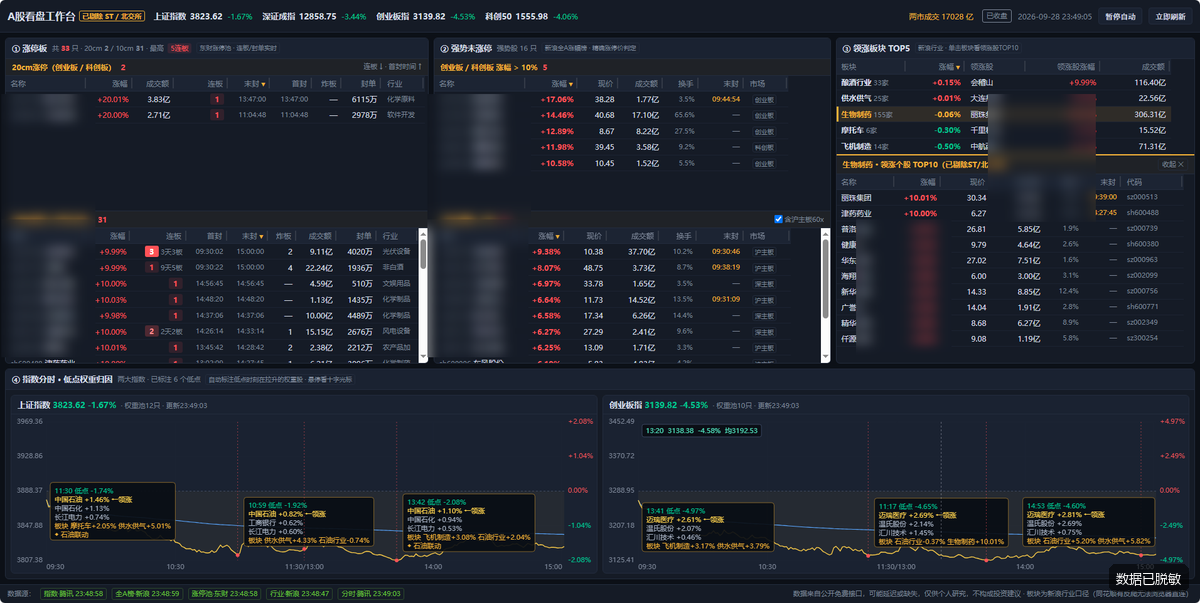
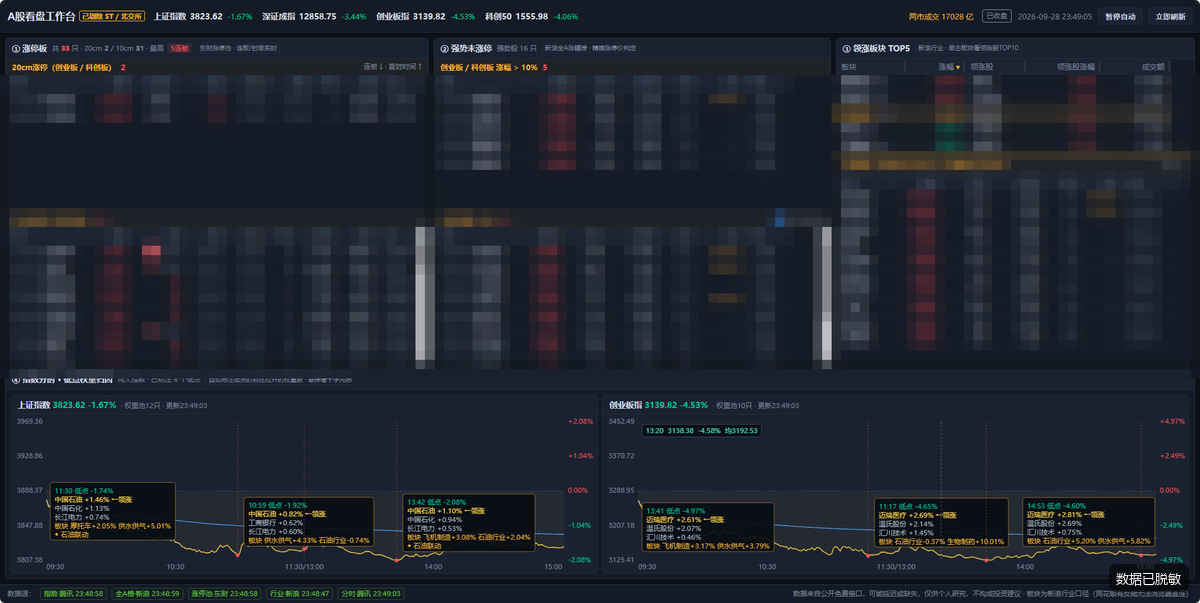
feat: 案例封面重做（设备框样式）+ 脱敏改用马赛克
封面
- 新增 dev/make-case-covers.py：把截图装进「浏览器窗口 / 手机」框，统一 1200x750
- 桌面案例用浏览器框（含圆点与标题胶囊），移动案例用手机框（含刘海）
- 配品牌底色、径向光晕、极淡网格与投影，「数据已脱敏」角标打在封面角落
- 原先直接把截图塞进卡片，缩到 400px 宽就成了一团看不清的色块

脱敏
- 高斯模糊改为马赛克：大块模糊看起来像「图片糊了」，马赛克才是通用的「刻意遮蔽」语言
- 深色图从「逐列抠名称列」改为整片遮蔽——三列卡片垂直位置并不一致，
  右列还多一列股票代码，逐列抠坐标连续失败三次，漏出过真实个股名
- 浅色图同步改马赛克，两图风格统一
- 新增 dev/cases-clean/（无角标中间产物，已 gitignore），避免角标跟着截图跑进设备框

测试 28 项全部通过

diff --git a/config.js b/config.js
@@ -195,7 +195,7 @@ window.SITE_CONFIG = {
       tag: '数据可视化 · 桌面 Web',
       title: 'A股全流程复盘工作台',
       tagline: '把散在五六个网站的数据，收进一屏',
-      cover: 'assets/cases/stock-workbench-dark.png',
+      cover: 'assets/cases/cover-stock-workbench.png',
       gallery: [
         { src: 'assets/cases/stock-workbench-dark.png', caption: '盘中模式 · 涨幅梯队 / 板块强度 / 指数分时叠加' },
         { src: 'assets/cases/stock-workbench-light.png', caption: '复盘模式 · 盘前资讯聚合 / 涨停归因 / 历史对比' }
@@ -214,7 +214,7 @@ window.SITE_CONFIG = {
       tag: '移动端 · PWA',
       title: '多设备收益记账助手',
       tagline: '几台设备同时跑，收益一眼看清',
-      cover: 'assets/cases/didicheck-mobile.png',
+      cover: 'assets/cases/cover-income-tracker.png',
       gallery: [
         { src: 'assets/cases/didicheck-mobile.png', caption: '多设备并列对比 · 日 / 月双维度自动累计' }
       ],

diff --git a/dev/make-case-covers.py b/dev/make-case-covers.py
@@ -1,0 +1,221 @@
+"""生成案例封面图（设备框样式）
+
+为什么不用原始截图直接当封面：
+  截图宽度 1200px，缩到卡片里只有 400px 左右，密集表格会糊成一团色块，
+  而且脱敏的模糊条会直接暴露在外，观感很差。
+  这里把截图装进「浏览器窗口 / 手机」框里，配上品牌底色与光晕，
+  既统一了视觉与比例，也让截图变成「作品」而不是「截图」。
+
+用法：python dev/make-case-covers.py
+"""
+
+import os
+
+from PIL import Image, ImageDraw, ImageFilter, ImageFont
+
+BASE = os.path.dirname(os.path.dirname(os.path.abspath(__file__)))
+SRC = os.path.join(BASE, "dev", "cases-clean")    # 无角标的脱敏截图（由 redact-cases.py 生成）
+OUT = os.path.join(BASE, "assets", "cases")       # 封面输出（会部署）
+
+W, H = 1200, 750
+S = 2                       # 超采样倍数，缩回去时圆角/描边才平滑
+BG = (4, 5, 10)
+
+CYAN = (34, 211, 238)
+VIOLET = (139, 92, 246)
+PINK = (244, 114, 182)
+
+FONT_MONO = "C:/Windows/Fonts/consola.ttf"
+FONT_REG = "C:/Windows/Fonts/msyh.ttc"
+
+
+def px(v):
+    return int(round(v * S))
+
+
+def font(path, size):
+    try:
+        return ImageFont.truetype(path, px(size))
+    except OSError:
+        return ImageFont.load_default()
+
+
+def radial_glow(size, cx, cy, radius, color, peak_alpha):
+    layer = Image.new("RGBA", size, (0, 0, 0, 0))
+    d = ImageDraw.Draw(layer)
+    steps = 70
+    for i in range(steps, 0, -1):
+        r = int(radius * i / steps)
+        a = int(peak_alpha * (1 - i / steps) ** 1.7)
+        d.ellipse([cx - r, cy - r, cx + r, cy + r], fill=color + (a,))
+    return layer.filter(ImageFilter.GaussianBlur(radius * 0.3))
+
+
+def background(glows):
+    """深色底 + 光晕 + 极淡网格。glows: [(cx, cy, radius, color, alpha), ...]"""
+    img = Image.new("RGBA", (px(W), px(H)), BG + (255,))
+    for (cx, cy, r, c, a) in glows:
+        img = Image.alpha_composite(img, radial_glow((px(W), px(H)), px(cx), px(cy), px(r), c, a))
+
+    grid = Image.new("RGBA", (px(W), px(H)), (0, 0, 0, 0))
+    gd = ImageDraw.Draw(grid)
+    for x in range(0, px(W), px(60)):
+        gd.line([(x, 0), (x, px(H))], fill=(255, 255, 255, 9))
+    for y in range(0, px(H), px(60)):
+        gd.line([(0, y), (px(W), y)], fill=(255, 255, 255, 9))
+    return Image.alpha_composite(img, grid)
+
+
+def rounded_mask(size, box, radius):
+    m = Image.new("L", size, 0)
+    ImageDraw.Draw(m).rounded_rectangle(box, radius=radius, fill=255)
+    return m
+
+
+def drop_shadow(canvas, box, radius, blur, alpha):
+    sh = Image.new("RGBA", canvas.size, (0, 0, 0, 0))
+    d = ImageDraw.Draw(sh)
+    d.rounded_rectangle([box[0], box[1] + px(22), box[2], box[3] + px(22)],
+                        radius=radius, fill=(0, 0, 0, alpha))
+    sh = sh.filter(ImageFilter.GaussianBlur(px(blur)))
+    return Image.alpha_composite(canvas, sh)
+
+
+def fit(img, w, h):
+    """等比缩放到填满 w×h，然后居中裁切。"""
+    r = max(w / img.width, h / img.height)
+    nw, nh = int(img.width * r), int(img.height * r)
+    img = img.resize((nw, nh), Image.LANCZOS)
+    return img.crop(((nw - w) // 2, (nh - h) // 2, (nw - w) // 2 + w, (nh - h) // 2 + h))
+
+
+def add_badge(img):
+    """右下角加「数据已脱敏」角标。必须画在 RGBA 覆盖层上，否则 alpha 会被忽略。"""
+    d = ImageDraw.Draw(img, "RGBA")
+    text = "数据已脱敏"
+    try:
+        f = ImageFont.truetype(FONT_REG, 13)
+    except OSError:
+        f = ImageFont.load_default()
+    bbox = d.textbbox((0, 0), text, font=f)
+    tw, th = bbox[2] - bbox[0], bbox[3] - bbox[1]
+    pad = 7
+    x2, y2 = img.width - 14, img.height - 14
+    x1, y1 = x2 - tw - pad * 2, y2 - th - pad * 2
+    d.rounded_rectangle([x1, y1, x2, y2], radius=6, fill=(0, 0, 0, 155))
+    d.text((x1 + pad, y1 + pad - 1), text, font=f, fill=(255, 255, 255, 240))
+    return img
+
+
+def finish(canvas, dst):
+    out = canvas.convert("RGB").resize((W, H), Image.LANCZOS)
+    out = add_badge(out)
+    out.save(dst, "PNG", optimize=True)
+    print("  %-34s %dx%d  %.0f KB" % (os.path.basename(dst), W, H, os.path.getsize(dst) / 1024))
+
+
+def desktop_cover(src, dst, title, glows):
+    shot = Image.open(src).convert("RGB")
+
+    mx = 58
+    fw = W - mx * 2
+    chrome = 46
+    fh = chrome + int(fw * shot.height / shot.width)
+    fx, fy = mx, (H - fh) // 2
+
+    box = [px(fx), px(fy), px(fx + fw), px(fy + fh)]
+    canvas = background(glows)
+    canvas = drop_shadow(canvas, box, px(16), 26, 190)
+
+    frame_mask = rounded_mask(canvas.size, box, px(16))
+
+    # 窗口底色
+    body = Image.new("RGBA", canvas.size, (0, 0, 0, 0))
+    ImageDraw.Draw(body).rounded_rectangle(box, radius=px(16), fill=(11, 13, 22, 255))
+    canvas = Image.alpha_composite(canvas, Image.composite(body, Image.new("RGBA", canvas.size, (0, 0, 0, 0)), frame_mask))
+
+    # 标题栏
+    bar = Image.new("RGBA", canvas.size, (0, 0, 0, 0))
+    bd = ImageDraw.Draw(bar)
+    bd.rounded_rectangle([box[0], box[1], box[2], box[1] + px(chrome)], radius=px(16), fill=(16, 19, 32, 255))
+    bd.rectangle([box[0], box[1] + px(chrome) - px(16), box[2], box[1] + px(chrome)], fill=(16, 19, 32, 255))
+    bd.line([(box[0], box[1] + px(chrome)), (box[2], box[1] + px(chrome))], fill=(255, 255, 255, 26), width=px(1))
+    canvas = Image.alpha_composite(canvas, bar)
+
+    d = ImageDraw.Draw(canvas)
+    # 三个圆点
+    for i, c in enumerate([(255, 95, 87), (254, 188, 46), (40, 200, 64)]):
+        cx = box[0] + px(28 + i * 24)
+        cy = box[1] + px(chrome / 2)
+        d.ellipse([cx - px(6.5), cy - px(6.5), cx + px(6.5), cy + px(6.5)], fill=c + (185,))
+
+    # 地址栏胶囊
+    pw, ph = px(300), px(26)
+    pxx = box[0] + (box[2] - box[0] - pw) // 2
+    pyy = box[1] + (px(chrome) - ph) // 2
+    d.rounded_rectangle([pxx, pyy, pxx + pw, pyy + ph], radius=ph // 2, fill=(255, 255, 255, 20))
+    f_lbl = font(FONT_REG, 13)
+    tb = d.textbbox((0, 0), title, font=f_lbl)
+    d.text((pxx + (pw - (tb[2] - tb[0])) / 2 - tb[0], pyy + (ph - (tb[3] - tb[1])) / 2 - tb[1]),
+           title, font=f_lbl, fill=(130, 146, 170, 255))
+
+    # 截图
+    cw, ch = box[2] - box[0], box[3] - (box[1] + px(chrome))
+    shot = fit(shot, cw, ch)
+    canvas.paste(shot, (box[0], box[1] + px(chrome)), frame_mask.crop(
+        (box[0], box[1] + px(chrome), box[2], box[3])))
+
+    # 外描边
+    edge = Image.new("RGBA", canvas.size, (0, 0, 0, 0))
+    ImageDraw.Draw(edge).rounded_rectangle(box, radius=px(16), outline=(255, 255, 255, 38), width=px(1.4))
+    canvas = Image.alpha_composite(canvas, edge)
+
+    finish(canvas, dst)
+
+
+def mobile_cover(src, dst, glows):
+    shot = Image.open(src).convert("RGB")
+
+    ph_h = 664
+    ph_w = int(ph_h * shot.width / shot.height)
+    px0, py0 = (W - ph_w) // 2, (H - ph_h) // 2
+
+    box = [px(px0), px(py0), px(px0 + ph_w), px(py0 + ph_h)]
+    canvas = background(glows)
+    canvas = drop_shadow(canvas, box, px(44), 30, 200)
+
+    frame_mask = rounded_mask(canvas.size, box, px(44))
+
+    body = Image.new("RGBA", canvas.size, (0, 0, 0, 0))
+    ImageDraw.Draw(body).rounded_rectangle(box, radius=px(44), fill=(11, 13, 22, 255))
+    canvas = Image.alpha_composite(canvas, Image.composite(body, Image.new("RGBA", canvas.size, (0, 0, 0, 0)), frame_mask))
+
+    inset = px(9)
+    inner = [box[0] + inset, box[1] + inset, box[2] - inset, box[3] - inset]
+    inner_mask = rounded_mask(canvas.size, inner, px(36))
+
+    cw, ch = inner[2] - inner[0], inner[3] - inner[1]
+    shot = fit(shot, cw, ch)
+    canvas.paste(shot, (inner[0], inner[1]), inner_mask.crop(tuple(inner)))
+
+    edge = Image.new("RGBA", canvas.size, (0, 0, 0, 0))
+    ImageDraw.Draw(edge).rounded_rectangle(box, radius=px(44), outline=(255, 255, 255, 44), width=px(1.4))
+    canvas = Image.alpha_composite(canvas, edge)
+
+    finish(canvas, dst)
+
+
+if __name__ == "__main__":
+    print("生成案例封面：")
+    desktop_cover(
+        os.path.join(SRC, "stock-workbench-dark.png"),
+        os.path.join(OUT, "cover-stock-workbench.png"),
+        "A股全流程复盘工作台",
+        [(230, 60, 660, CYAN, 58), (1030, 110, 620, VIOLET, 54)],
+    )
+    mobile_cover(
+        os.path.join(SRC, "didicheck-mobile.png"),
+        os.path.join(OUT, "cover-income-tracker.png"),
+        [(300, 120, 620, PINK, 52), (980, 560, 600, VIOLET, 50)],
+    )
+    print("\n完成。封面用于案例卡片，原脱敏截图仍用于弹窗大图。")

diff --git a/dev/redact-cases.py b/dev/redact-cases.py
@@ -9,19 +9,19 @@ import os
 from PIL import Image, ImageFilter, ImageDraw, ImageFont
 
 BASE = os.path.dirname(os.path.dirname(os.path.abspath(__file__)))  # 项目根目录
-OUT = os.path.join(BASE, "assets", "cases")
+OUT = os.path.join(BASE, "assets", "cases")          # 脱敏后的图（会部署，带角标，供弹窗大图用）
+RAW = os.path.join(BASE, "dev", "cases-raw")         # 原始截图（已 gitignore）
+CLEAN = os.path.join(BASE, "dev", "cases-clean")     # 无角标版（供封面脚本用，已 gitignore）
 
 # ── 图 1：A股看盘工作台（深色）────────────────────────────────────────
 # 坐标以原图 1912x962 为基准（用 _grid.png 校准得出）
 # 只模糊「名称列 / 领涨股列」，标题、表头、涨幅、成交额、图表全部保留
 DARK_REF = (1912, 962)
+# 三列卡片的垂直位置并不一致（右列表格比左列高约 20px，且多一列股票代码），
+# 逐列抠坐标已失败三次。改为整片模糊：顶部导航与底部图表保持清晰，中间全部遮蔽。
+# 牺牲一点信息密度，换取零遗漏——个股名一旦泄露就是合规问题。
 DARK_REGIONS = [
-    (2, 150, 152, 354),      # 左列 涨停板 名称列（代码+股票名）
-    (681, 150, 846, 354),    # 中列 强势未选 名称列
-    (1574, 150, 1746, 354),  # 右列 强势板块 领涨股列
-    (2, 350, 152, 570),      # 左列 10cm涨停 名称列
-    (681, 350, 842, 570),    # 中列 主板涨幅 名称列
-    (1364, 350, 1516, 570),  # 右列 生物制品 名称列
+    (0, 120, 1912, 604),
 ]
 
 # ── 图 2：A股收盘复盘工作台（浅色）────────────────────────────────────
@@ -49,17 +49,34 @@ MOBILE_REGIONS = [
 
 def blur_regions(img, ref_size, regions, radius):
     """按参考尺寸定义的矩形，等比映射到实际尺寸后做高斯模糊。"""
+    for box in _boxes(img, ref_size, regions):
+        img.paste(img.crop(box).filter(ImageFilter.GaussianBlur(radius)), box)
+    return img
+
+
+def pixelate_regions(img, ref_size, regions, block):
+    """马赛克遮蔽。
+
+    大块高斯模糊看起来像「图片糊了」，马赛克则是通用的「刻意遮蔽」视觉语言，
+    观感更专业。block 为马赛克方块边长（原图像素）。
+    """
+    for box in _boxes(img, ref_size, regions):
+        w, h = box[2] - box[0], box[3] - box[1]
+        small = img.crop(box).resize((max(1, w // block), max(1, h // block)), Image.BILINEAR)
+        img.paste(small.resize((w, h), Image.NEAREST), box)
+    return img
+
+
+def _boxes(img, ref_size, regions):
     sx = img.width / ref_size[0]
     sy = img.height / ref_size[1]
+    out = []
     for (x1, y1, x2, y2) in regions:
-        box = (int(x1 * sx), int(y1 * sy), int(x2 * sx), int(y2 * sy))
-        box = (max(0, box[0]), max(0, box[1]),
-               min(img.width, box[2]), min(img.height, box[3]))
-        if box[2] <= box[0] or box[3] <= box[1]:
-            continue
-        crop = img.crop(box).filter(ImageFilter.GaussianBlur(radius))
-        img.paste(crop, box)
-    return img
+        b = (max(0, int(x1 * sx)), max(0, int(y1 * sy)),
+             min(img.width, int(x2 * sx)), min(img.height, int(y2 * sy)))
+        if b[2] > b[0] and b[3] > b[1]:
+            out.append(b)
+    return out
 
 
 def add_badge(img):
@@ -81,11 +98,20 @@ def add_badge(img):
     return img
 
 
-def process(src, dst, ref_size, regions, out_width, radius=9):
-    img = Image.open(os.path.join(OUT, src)).convert("RGB")
-    blur_regions(img, ref_size, regions, radius)
+def process(src, dst, ref_size, regions, out_width, radius=9, mode="blur", block=14):
+    img = Image.open(os.path.join(RAW, src)).convert("RGB")
+    if mode == "pixelate":
+        pixelate_regions(img, ref_size, regions, block)
+    else:
+        blur_regions(img, ref_size, regions, radius)
     ratio = out_width / img.width
     img = img.resize((out_width, int(img.height * ratio)), Image.LANCZOS)
+
+    # 先存一份无角标的干净版给封面脚本（角标要打在封面上，不能跟着截图跑进设备框）
+    os.makedirs(CLEAN, exist_ok=True)
+    img.save(os.path.join(CLEAN, dst), "PNG", optimize=True)
+
+    # 再存带角标的版本给弹窗大图
     add_badge(img)
     img.save(os.path.join(OUT, dst), "PNG", optimize=True)
     print("  %-22s -> %-22s %dx%d  %.0f KB" % (
@@ -95,7 +121,9 @@ def process(src, dst, ref_size, regions, out_width, radius=9):
 
 if __name__ == "__main__":
     print("生成脱敏后的案例图：")
-    process("_raw-stock-dark.png", "stock-workbench-dark.png", DARK_REF, DARK_REGIONS, 1200)
-    process("_raw-stock-light.png", "stock-workbench-light.png", LIGHT_REF, LIGHT_REGIONS, 1200)
+    process("_raw-stock-dark.png", "stock-workbench-dark.png", DARK_REF, DARK_REGIONS, 1200,
+            mode="pixelate", block=15)
+    process("_raw-stock-light.png", "stock-workbench-light.png", LIGHT_REF, LIGHT_REGIONS, 1200,
+            mode="pixelate", block=16)
     process("_raw-checkin.png", "didicheck-mobile.png", MOBILE_REF, MOBILE_REGIONS, 367, radius=7)
     print("\n完成。检查 assets/cases/ 下的输出图。")
